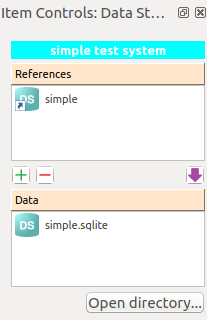
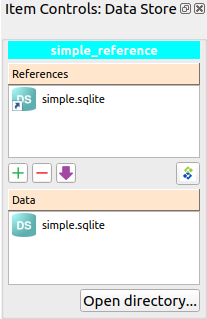
Issue #80 updated. New version of the tutorial to keep up with app changes.

Changed region(s): [[0.0, 0.1129, 1.0, 1.0], [0.0, 0.0, 1.0, 0.0564]]

diff --git a/spinetoolbox/data_store.py b/spinetoolbox/data_store.py
@@ -170,9 +170,13 @@ class DataStore(MetaObject):
         self._parent.msg.emit("Importing database <b>{0}</b>".format(database))
         # Source
         source_url = reference['url']
+        logging.debug(source_url)
         source_engine = create_engine(source_url)
         # Destination
-        dest_filename = os.path.join(self.data_dir, database + ".sqlite")
+        if source_url.startswith('sqlite'):
+            dest_filename = os.path.join(self.data_dir, database)
+        else:
+            dest_filename = os.path.join(self.data_dir, database + ".sqlite")
         try:
             os.remove(dest_filename)
         except OSError:

diff --git a/docs/source/tutorial.rst b/docs/source/tutorial.rst
@@ -10,6 +10,8 @@
            :width: 16
 .. |import| image:: ../../spinetoolbox/ui/resources/import.png
             :width: 16
+.. |Spine| image:: ../../spinetoolbox/ui/resources/Spine_symbol.png
+          :width: 16
 
 Tutorial
 ========
@@ -23,28 +25,26 @@ Welcome to the tutorial for Spine Toolbox. This tutorial covers the following to
 Knowing the Interface
 ---------------------
 
-The Spine Toolbox interface has two main components, *Main View* and *Contents*:
+The Spine Toolbox interface revolves around the **Main View**,
+where you can visualize and manipulate your project in a pictorial way.
+Alongside **Main view** there are a few *docked widgets*:
 
-- **Main View** lets you visualize and manipulate your project in a pictorial way. Here you can
-  place your items, and define the connections between items to build a
-  *data processing chain*.
-- **Contents** provides more concise views of your project into three tabs:
+- **Project** provides more concise views of your project into three tabs:
 
-   - The *Items* tab gives you access to your project items grouped by category:
+   - *Items* lists project items grouped by category:
      Data Stores, Data Connections, Tools and Views.
-   - The *Connections* tab lets you see and modify connections between items.
-   - *Templates* is for managing tools that Tool items can run.
+   - *Connections* shows connections between items.
+   - *Templates* lists Tool templates that Tool items can run.
 
-Besides these two main views, there are a few *docked widgets*:
-
-- **Item Controls** shows specific controls for the currently selected item.
-- **Event Log** is where Spine Toolbox informs you about everything that's going on.
+- **Item Controls** shows controls for the currently selected item.
+- **Event Log** outputs informative messages, and also errors and warnings.
 - **Subprocess Output** shows the output of command line tools.
 - **Julia REPL** is the console where Julia tools are executed.
 
 .. tip:: You can drag-and-drop the docked widgets around the screen,
    customizing the interface at your will.
-   Also, you can select which ones are shown/hidden using the **View** menu in the main menu bar.
+   Also, you can select which ones are shown/hidden using either the **View** menu,
+   or the *Add Item* toolbar's context menu.
    Spine Toolbox will remember your configuration between sessions.
 
 .. tip:: Most elements in the Spine Toolbox's interface are equipped with *tool tips*. Leave your mouse
@@ -54,8 +54,6 @@ Creating a Project
 ------------------
 
 In the main menu bar, click **File**, **New...** to open the *New Project* form.
-Here you can give the project a name and,
-optionally, a description.
 Type 'tutorial' in the name field ---we will leave the description empty this time--- and click **Ok**.
 
 Congratulations, you have created a new project.
@@ -65,14 +63,14 @@ Congratulations, you have created a new project.
 Working with Data Stores
 ------------------------
 
-Let's add a Data Store to the project. You can do this in either of two ways:
+Let's add a Data Store to the project. You can do this in two different ways:
 
 A) In the main menu bar, click **Edit**, **Add Data Store**.
 B) Drag-and-drop the *Data Store* icon (|ds_icon|) from the *Add Item* toolbar onto the *Main View*.
 
-The *Add Data Store* form will appear, allowing you to enter a name and description for the Data Store.
+The *Add Data Store* form will appear.
 Type 'simple test system' in the name field and click **Ok**.
-Now you should see the newly added item in the *Main View*, and also in the *Contents* pane, *Items* tab. It should
+Now you should see the newly added item in the *Main View*, and also in the *Project* widget, *Items* tab. It should
 look similar to this:
 
 .. image:: img/simple_test_system.png
@@ -83,11 +81,10 @@ look similar to this:
    between this and other items in your project. You don't have other items yet so we'll leave
    this button alone for now.
 
-Click anywhere in the Data Store item (outside of the connector button) to select it. This will also show
-its controls in the *Item Controls* area.
+Click anywhere in the Data Store item (outside of the connector button) to select it.
 
 .. tip:: You can also select a project item
-   by clicking on its name in the *Contents* pane, *Items* tab.
+   by clicking on its name in the *Project* widget, *Items* tab.
 
 With the Data Store item selected,
 the *Item Controls* area should show two lists ---both empty for now---, *References* and *Data*:
@@ -101,28 +98,24 @@ the *Item Controls* area should show two lists ---both empty for now---, *Refere
 Creating a new Spine database
 ~~~~~~~~~~~~~~~~~~~~~~~~~~~~~
 
-Let's add a new reference to this Data Store.
-Click on the *plus* button (|plus|) and select **New Spine SQLite database** in the popup menu.
-A dialog will show up to let you choose a name for the database. Type 'simple' and click **Ok**.
+Let's add data to this Data Store.
+Click on the *Spine* button (|Spine|) under *Item controls*.
+In the popup dialog, type 'simple' as the database name and click **Ok**.
 
-Now you should see the newly added reference in the list. It should look like this:
+Now you should see a new item in the *Data* list:
 
-.. image:: img/item_controls_data_store.png
+.. image:: img/data_store_simple_sqlite.png
    :align: center
-
-.. tip:: To remove a reference, select it by clicking on its name
-   and then press the *minus* button (|minus|).
-   You can also remove all references at once by pressing this button while nothing is selected.
 
 
 Using the Spine Data Store form
 ~~~~~~~~~~~~~~~~~~~~~~~~~~~~~~~
 
-Double click on the 'simple' reference we've just created to open the **Spine Data Store** form. This is
+Double click on the 'simple.sqlite' file we've just created to open the **Spine Data Store** form. This is
 a dedicated interface that you can use to manipulate databases in the Spine format. The interface is
 divided in three main areas:
 
-- **Object tree** displays the database contents in form of a tree,
+- **Object tree** displays the database contents into a tree,
   with object classes at the top level.
 - **Object parameter** displays parameters associated with the object that is
   currently selected in the *Object tree*.
@@ -135,15 +128,16 @@ Right now you should see a list of pre-defined object classes in the *Object tre
    correspond to the *generic data structure* that Spine uses to define energy models.
 
 Let's add a new object to the 'unit' object class. Right-click over the item tagged 'unit' in the *Object tree*
-and select **Add object** from the context menu. This will show a dialog where you can specify a name and
-description for the new object. Enter 'coal_import' in the name field and click **Ok**. Now you
+and select **Add object** from the context menu. In the popup dialog,
+enter 'coal_import' in the name field and click **Ok**. Now you
 should see the newly added object in the *Object tree*, under the 'unit' class.
 
 Repeat the operation to add an object called 'Leuven' to the 'node' class.
 
-Now let's add a relationship class between the 'node' and 'unit' object classes. Right-clik on 'node' to display
+Now let's add a relationship class between the 'node' and 'unit' object classes.
+Right-clik on 'node' to display
 the context menu, and this time select **Add relationship class**.
-A new dialog will show ---enter 'node_unit' in the name field,
+Enter 'node_unit' in the name field,
 and select 'unit' from the drop-down list. Click **Ok** when you are done.
 An item named 'node_unit' should appear now *both* under the 'coal_import' and 'Leuven' objects,
 as below:
@@ -154,8 +148,7 @@ as below:
 Let's add a relationship of class 'node_unit' between the two objects we've created.
 Right-click on the 'node_unit' relationship class
 below the 'coal_import' object and select **Add relationship** in the context menu.
-In the pop up dialog,
-enter 'Leuven_coal_unit' in the name field and select 'Leuven' from the drop-down list (it should be
+Enter 'Leuven_coal_unit' in the name field and select 'Leuven' from the drop-down list (it should be
 the only option available). Click **Ok**.
 
 After this you should see an item called 'Leuven' under the 'node_unit' relationship class
@@ -169,15 +162,15 @@ representing the same relationship but in the opposite sense:
   :align: center
 
 .. important:: Relationships in Spine are *omni-directional* (in simple terms, they work both ways).
-   For this reason, every time you
-   create a relationship, Spine Toolbox will create  the symmetric relationship
+   Therefore, for every relationship  you create, Spine Toolbox creates the symmetric relationship
    for you.
 
-Let's go one step ahead and add a couple of parameters to the 'unit' class. Right click on the 'unit'
-class and select **Add parameter** in the context menu. This will automatically activate
-the *Definition* tab in the *Object parameter* pane, add a new record to that table, and start
-editing the *parameter_name* field. You just need to type the parameter name now.
-Type 'conversion_cost' and press *Enter*.
+Let's go one step ahead and add a couple of parameters to the 'unit' class. Right click on 'unit'
+and select **Add parameter** in the context menu.
+Type 'conversion_cost' in the name field and press *Enter*.
+This will automatically activate
+the *Definition* tab in the *Object parameter* pane and highlight the newly inserted
+parameter.
 
 .. note:: Don't worry about the other fields in the *parameter* table for now. They are
    only there to support more sophisticated parameter definitions to be used, for instance,
@@ -191,61 +184,40 @@ should see something like this in the *Object parameter* pane, *Definition* tab:
 
 To finish our session with the *Spine Data Store* form, we will add a new parameter value. Right-click
 on the 'coal_import' object under the 'unit' class, and select **Add parameter value** in the
-context menu. This will automatically activate the *Value* tab in the *Object parameter* pane, add a new
-record to that table, and expand a list of available names over the *parameter_name* field. Here you should see
-the names of the two parameters we've just added. Click on 'conversion_cost'.
-
-Ater this, you will be automatically prompted to edit the *index* field.
-Accept the current value (1) by pressing *Enter*.
-Now let's edit the *value* field: just select this field (by clicking on it) and type '12' followed by *Enter*.
-After all this, the table should be looking like this:
+context menu. In the drop-down list you should see the two parameters we have just
+created. Select 'conversion_cost', type '12' in the value field and click **Ok** (don't worry
+about the json field just yet).
+This will automatically activate the *Value* tab in the *Object parameter* pane,
+and highlight the newly inserted parameter value:
 
 .. image:: img/parameter_value.png
   :align: center
 
-It's time to save our work. At the bottom of the form, you will find a text field where you can type a commit message.
-Type 'Add coal_import, Leuven, and conversion_cost.' (or any other meaningful message)
-and then click on the **Commit** button. That's it.
-Spine Toolbox has just updated the 'simple' reference with the newly inserted data.
+It's time to save our work. In the menu bar, click **Session**, **Commit**,
+type 'Add coal_import, Leuven, and conversion_cost.' (or any other meaningful message)
+and click **Ok**. All changes have now been committed to the 'simple.sqlite' database.
 
-Click **Close** to go back to the main interface.
+Select **Session**, **Close**, to close your session and go back to the main interface.
 
-Import references
-~~~~~~~~~~~~~~~~~
-
-Select the 'simple' reference in the *References* list and then click on the *import* button (|import|).
-This will copy the 'simple' database into a SQLite file called 'simple.sqlite',
-and put in the Data Store folder.
-After this, the *Item Controls* should look similar to this:
-
-.. image:: img/item_controls_data_store_import.png
-  :align: center
-
-You can open the 'simple.sqlite' file using the *Spine Data Store* form by double-clicking on it (much in
-the same way as you did with the 'simple' reference). Go ahead and do it. You will find the exact same
-content that you just inserted in the 'simple' database.
-
-Close the *Spine Data Store* form to go back to the main interface. Now click on **Open directory** in
-*Item Controls* to open the Data Store folder in your file explorer.
+Now click on **Open directory** under
+*Item Controls*. This will open your file explorer in the folder associated with
+this Data Store.
 You should see the 'simple.sqlite' file sitting there.
-Take note of the file's path for the next step in the tutorial.
-If you are running Spine Toolbox on Windows from the default location, the path should
-be something like ``C:\\SpineToolbox-0.0.13\projects\tutorial\simple_test_system\simple.sqlite``.
+Take note of the file's path for the next step.
+If you are running Spine Toolbox on Windows installed in the default location, the path should
+be something like this:
+``C:\\SpineToolbox-0.0.13\projects\tutorial\simple_test_system\simple.sqlite``.
 
-.. tip:: You can share the 'simple.sqlite' file with other Spine Toolbox users so they can see
-   (and possible continue) your work. All they need to do is add a reference to the 'simple.sqlite'
-   file in their project, using the procedure described in the next subsection.
 
-Add an SQLite reference
-~~~~~~~~~~~~~~~~~~~~~~~
+Adding an SQLite reference
+~~~~~~~~~~~~~~~~~~~~~~~~~~
 
 Just for illustration purposes, we will add a reference to the recently created 'simple.sqlite'
-file. Please note that this is not something you would typically do when working on a real project.
+file. Please note that this is not something you would typically do in a real project.
 
-Click on the plus button (|plus|) in the
-*Item Controls* area to add a new reference, and select **Other...** in the popup menu.
-This will open the *Add Database Reference* form.
-Here, select the 'sqlite' dialect in the drop-down list at the top.
+Add a new *Data Store* item to the project and call it 'simple_reference'. Select this new item
+to show its *Item Controls*, and
+click on the plus button (|plus|) to open the *Add Database Reference* form.
 
 .. note:: The *Add Database Reference* form allows you to access Spine databases in a number of
    SQL dialects. If you try to use a dialect that's currently not supported by your system,
@@ -254,13 +226,39 @@ Here, select the 'sqlite' dialect in the drop-down list at the top.
    about which package manager to choose, it's usually safe to try one and then the other and see
    what works.
 
-With the 'sqlite' dialect selected, click on the **Browse...** button. This will
+
+Select the 'sqlite' dialect in the drop-down list at the top,
+and click on the **Browse...** button. This will
 open a system dialog to let you
 select an SQLite file from your computer. Find the 'simple.sqlite' file (recall the path
 from the previous step) and click **Open**. Back in the *Add Database Reference* form, click
-**Ok**. Now you should see an item called 'simple.sqlite' just below 'simple' in your *References*
+**Ok**. Now you should see an item called 'simple.sqlite' in the *References*
 list.
 
+You can open the 'simple.sqlite' reference using the *Spine Data Store* form by double-clicking on it (much in
+the same way as you did with the 'simple.sqlite' file in the other Data Store).
+Go ahead and do it. You will find the exact same
+content that you just inserted in the 'simple.sqlite' database before.
+Close the *Spine Data Store* form to go back to the main interface.
+
+.. tip:: To remove a reference, select it by clicking on its name
+   and then press the *minus* button (|minus|).
+   You can also remove all references at once by pressing this button while nothing is selected.
+
+.. tip:: You can share the 'simple.sqlite' file with other Spine Toolbox users so they can see
+   (and possible continue) your work. All they need to do is add a reference to the 'simple.sqlite'
+   file in their project, using the procedure we have just described.
+
+
+Importing references
+~~~~~~~~~~~~~~~~~~~~
+
+Select the 'simple.sqlite' reference in the *References* list and then click on the *import* button (|import|).
+This will copy the 'simple.sqlite' database into a file called 'simple.sqlite' in the Data Store folder.
+After this, the *Item Controls* should look similar to this:
+
+.. image:: img/item_controls_data_store_import.png
+  :align: center
 
 
 .. TODO

diff --git a/docs/source/ui.rst b/docs/source/ui.rst
@@ -92,6 +92,14 @@ ui.settings module
     :undoc-members:
     :show-inheritance:
 
+ui.spine\_datapackage\_form module
+----------------------------------
+
+.. automodule:: ui.spine_datapackage_form
+    :members:
+    :undoc-members:
+    :show-inheritance:
+
 ui.subwindow\_data\_connection module
 -------------------------------------
 
